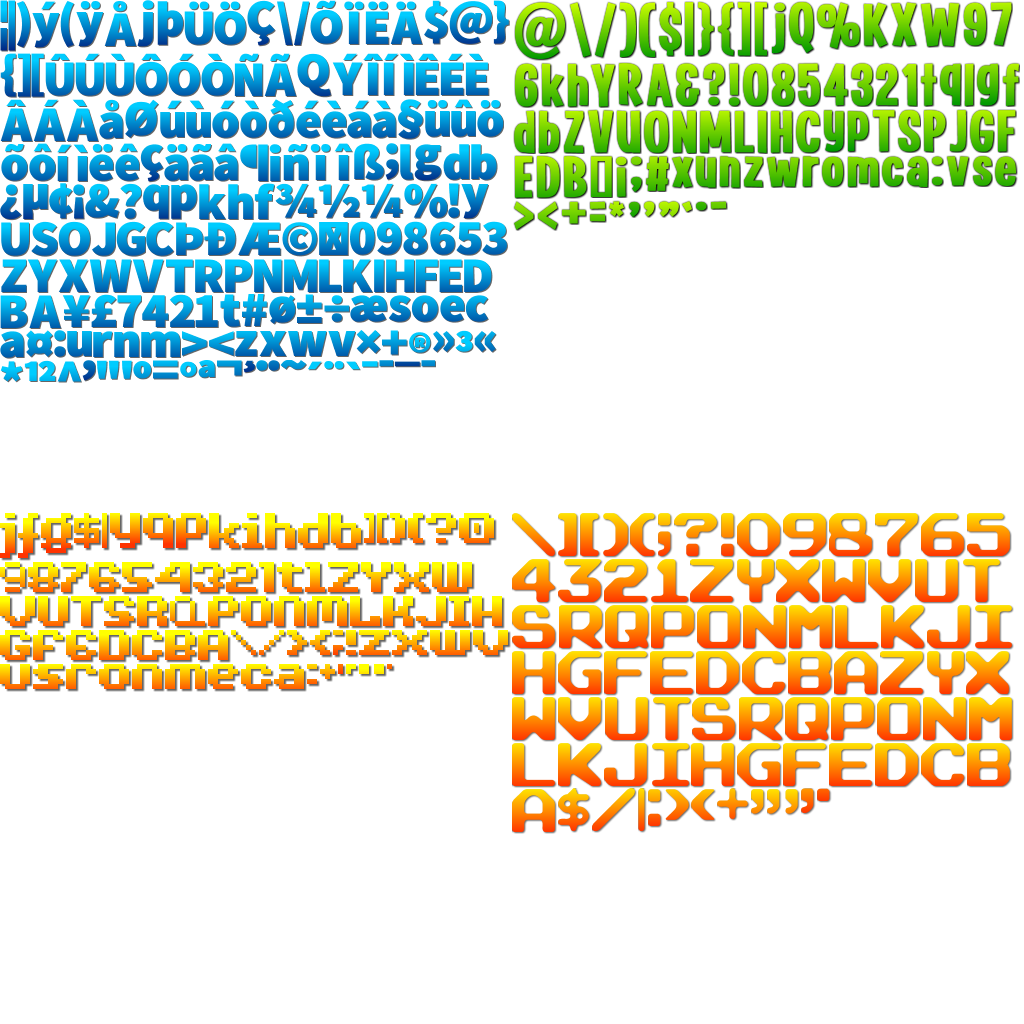
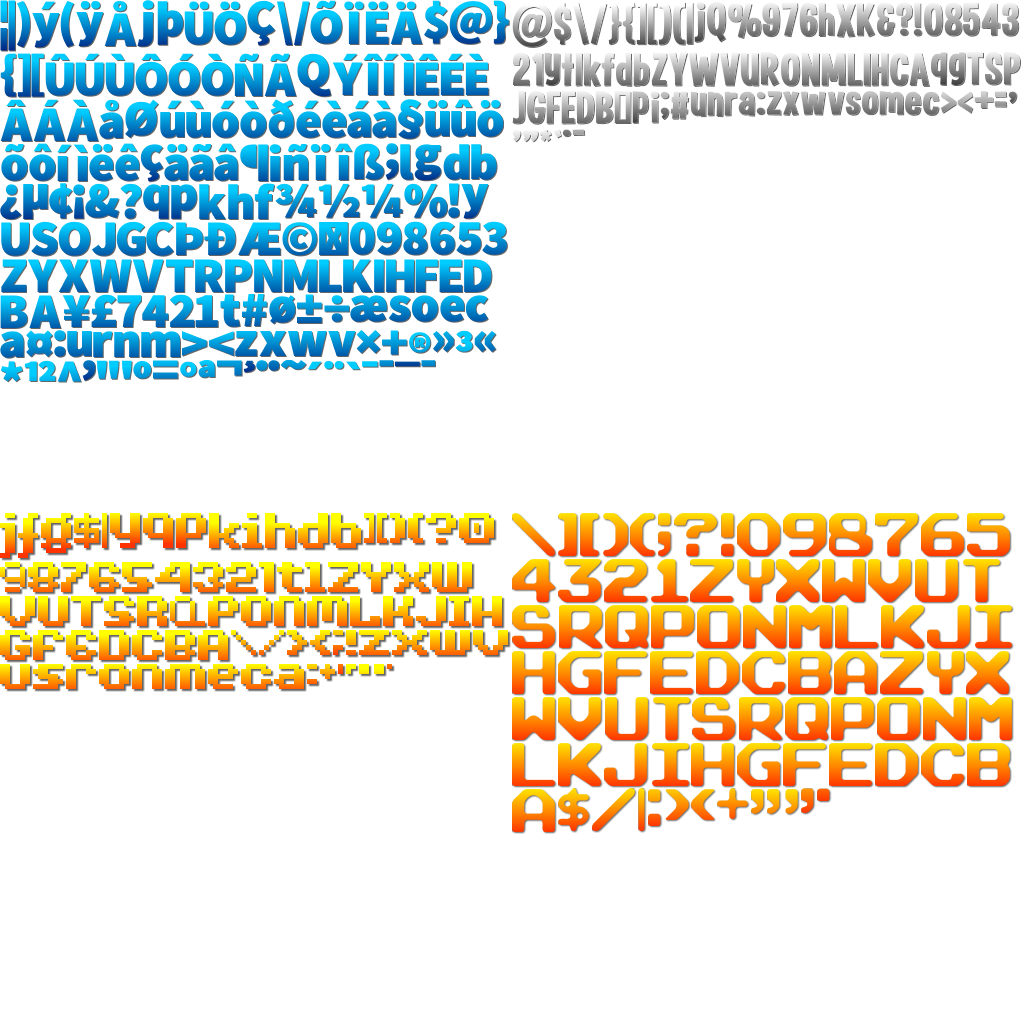
[add] new curse white font to be colored programmatically with one color [update] resources [update] dynamically change label color and scaling as much as the player is in an advantaged position or not

Changed region(s): [[0.5, 0.0, 1.0, 0.2188]]

diff --git a/uracer-desktop/src/com/bitfire/uracer/game/logic/gametasks/hud/elements/player/TrackProgress.java b/uracer-desktop/src/com/bitfire/uracer/game/logic/gametasks/hud/elements/player/TrackProgress.java
@@ -37,7 +37,7 @@ public class TrackProgress extends Positionable implements Disposable {
 	public TrackProgress (float scale) {
 
 		this.scale = scale;
-		lblAdvantage = new HudLabel(scale, FontFace.CurseGreen, "", false, 2f);
+		lblAdvantage = new HudLabel(scale, FontFace.CurseWhiteBig, "", false, 2f);
 		advantageShown = false;
 		lblAdvantage.setAlpha(1);
 
@@ -141,17 +141,17 @@ public class TrackProgress extends Positionable implements Disposable {
 			playerToTarget = AMath.fixup(progressval - progressTargetVal);
 // Gdx.app.log("", "p2t=" + playerToTarget);
 
-			if (distPlayer >= distGhost) {
-				if (lblAdvantage.getFont() != FontFace.CurseGreenBig) {
-					lblAdvantage.setFont(FontFace.CurseGreenBig);
-				}
-			}
-
-			if (distPlayer < distGhost) {
-				if (lblAdvantage.getFont() != FontFace.CurseRedBig) {
-					lblAdvantage.setFont(FontFace.CurseRedBig);
-				}
-			}
+			// if (distPlayer >= distGhost) {
+			// if (lblAdvantage.getFont() != FontFace.CurseGreenBig) {
+			// lblAdvantage.setFont(FontFace.CurseGreenBig);
+			// }
+			// }
+			//
+			// if (distPlayer < distGhost) {
+			// if (lblAdvantage.getFont() != FontFace.CurseRedBig) {
+			// lblAdvantage.setFont(FontFace.CurseRedBig);
+			// }
+			// }
 
 			lblAdvantage.setString(Math.round(distPlayer - distGhost) + " mt");
 
@@ -161,8 +161,14 @@ public class TrackProgress extends Positionable implements Disposable {
 			// Gdx.app.log("", "hide");
 		}
 
-		lblAdvantage.setScale(cameraZoom * 1f);
-		lblAdvantage.setPosition(position.x, position.y - cameraZoom * Convert.scaledPixels(120));
+		// advantage/disadvantage
+		float dist = MathUtils.clamp(playerToTarget * 8, -1, 1);
+		Color advantageColor = ColorUtils.paletteRYG(dist + 0.7f, 1f);
+
+// Gdx.app.log("dist=", "" + dist);
+		lblAdvantage.setColor(advantageColor);
+		lblAdvantage.setScale(cameraZoom * (0.6f + 0.3f * (dist + 0.7f)));
+		lblAdvantage.setPosition(position.x, position.y - cameraZoom * Convert.scaledPixels(100));
 		lblAdvantage.render(batch);
 
 		float scl = cameraZoom * scale;
@@ -190,9 +196,6 @@ public class TrackProgress extends Positionable implements Disposable {
 		sProgress.draw(batch, a);
 		batch.flush();
 
-		// advantage/disadvantage
-		float dist = MathUtils.clamp(playerToTarget * 8, -1, 1);
-
 		boolean isBack = (dist < 0);
 		if (isBack && !flipped) {
 			flipped = true;
@@ -202,9 +205,8 @@ public class TrackProgress extends Positionable implements Disposable {
 			sAdvantage.flip(true, false);
 		}
 
-		Color c = ColorUtils.paletteRYG(dist + 0.7f, 1f);
 		shProgress.setUniformf("progress", Math.abs(playerToTarget));
-		sAdvantage.setColor(c);
+		sAdvantage.setColor(advantageColor);
 		sAdvantage.setScale(scl * 1.1f);
 		sAdvantage.setPosition(position.x - sAdvantage.getWidth() / 2, position.y - sAdvantage.getHeight() / 2);
 		sAdvantage.draw(batch, 1);

diff --git a/uracer-desktop/src/com/bitfire/uracer/resources/BitmapFontFactory.java b/uracer-desktop/src/com/bitfire/uracer/resources/BitmapFontFactory.java
@@ -21,6 +21,7 @@ public final class BitmapFontFactory {
 		CurseRedBig("curse-r-big"),
 		CurseRedYellow("curse-y-r"),
 		CurseRedYellowBig("curse-y-r-big"),
+		CurseWhiteBig("curse-big-white"),
 		Molengo("molengo"),
 		Roboto("roboto"),
 		CurseRedYellowNew("curse-new"),

diff --git a/uracer-desktop/src/com/bitfire/uracer/utils/ColorUtils.java b/uracer-desktop/src/com/bitfire/uracer/utils/ColorUtils.java
@@ -18,5 +18,4 @@ public class ColorUtils {
 		tmpcolor.a = alpha;
 		return tmpcolor;
 	}
-
 }
